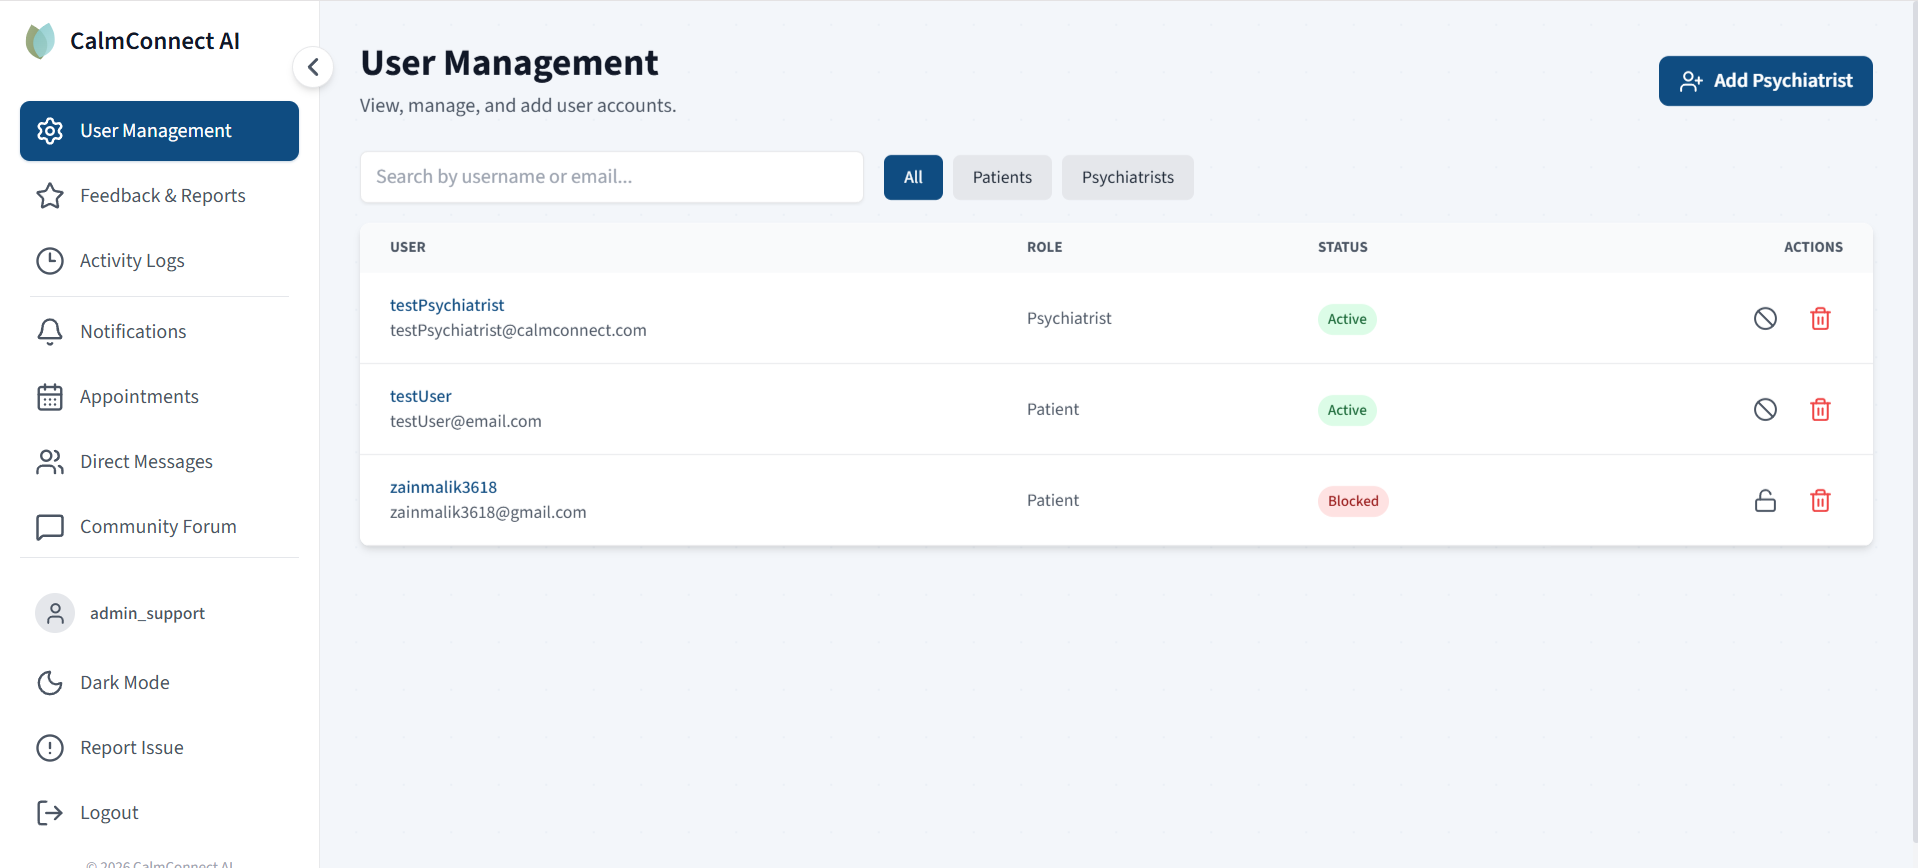
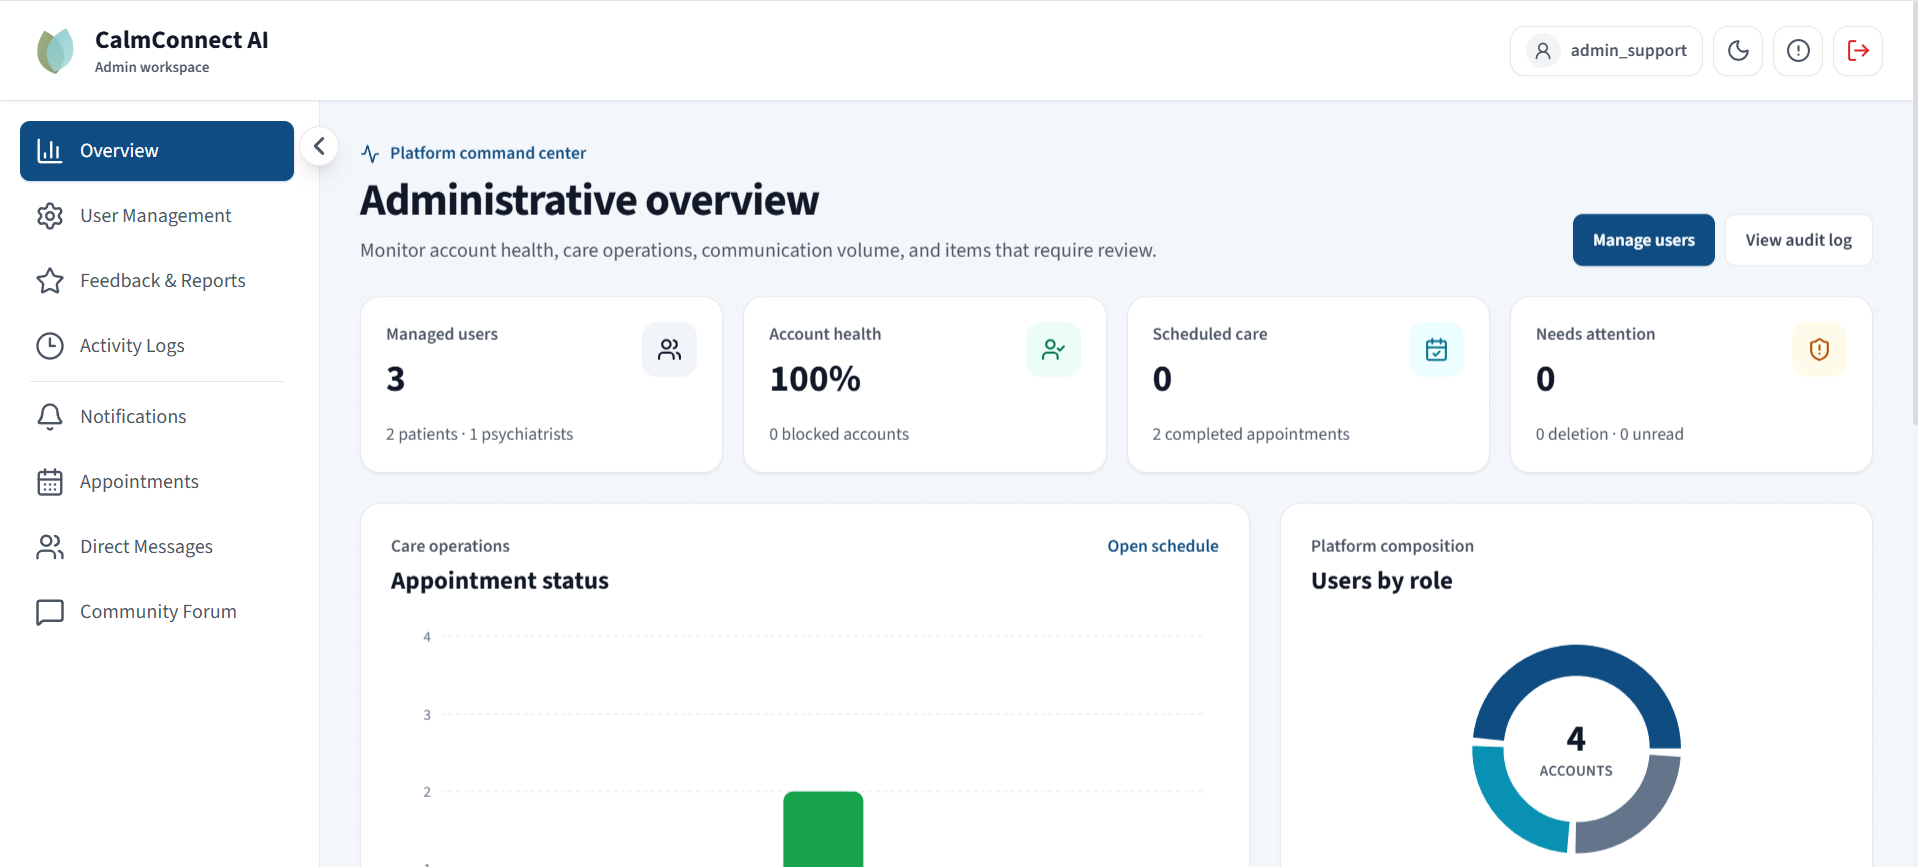
Updated CalmConnect AI screenshots.

diff --git a/src/data/projects.js b/src/data/projects.js
@@ -7,7 +7,7 @@ export const projects = [
     screenshots: [
       // Add your images inside public/projects/calmconnect/ and update these paths.
       // Example: { src: '/projects/calmconnect/dashboard.png', alt: 'CalmConnect AI dashboard' },
-      { src: '/projects/calmconnect/Signin.png', alt: 'CalmConnect AI Home page' },
+      { src: '/projects/calmconnect/Home.png', alt: 'CalmConnect AI Home page' },
       { src: '/projects/calmconnect/Patient.png', alt: 'CalmConnect AI Patient Dashboard' },
       { src: '/projects/calmconnect/Psychiatrist.png', alt: 'CalmConnect AI Psychiatrist Dashboard' },
       { src: '/projects/calmconnect/Admin.png', alt: 'CalmConnect AI Admin Dashboard' }